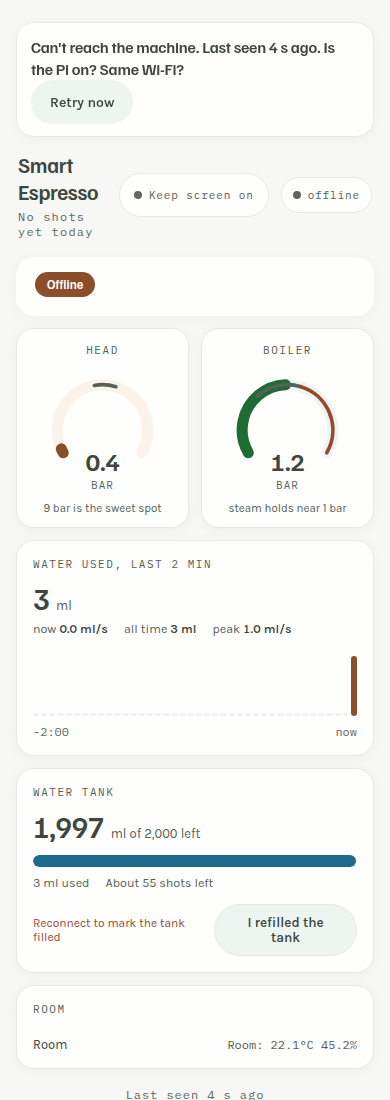
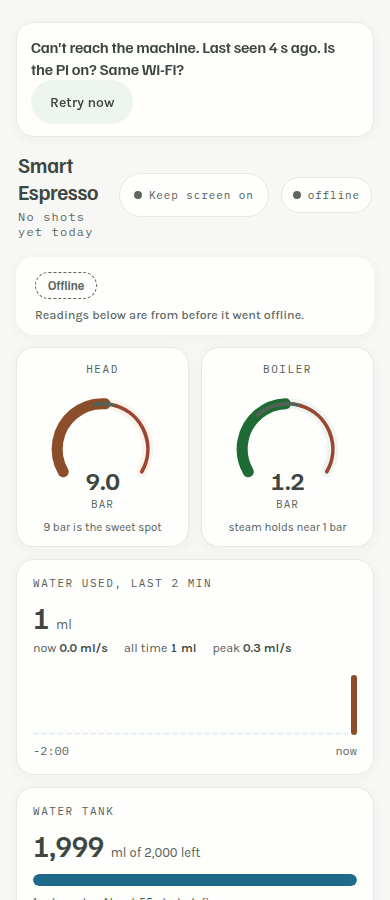
fix: quiet the Offline pill and name the kept readings
The pill uses the dashed mute style, and the detail says the cards still show the last readings. The banner keeps the can't-reach sentence.

diff --git a/smart_espresso/web/static/index.html b/smart_espresso/web/static/index.html
@@ -332,6 +332,12 @@
   }
 
   .state-chip .lamp { display: none; }
+  .state-chip.offline {
+    background: transparent;
+    color: var(--mute, var(--ink-faint));
+    border: 1px dashed var(--mute, var(--ink-faint));
+  }
+  .state-chip.offline .state-label::before { display: none; }
   .state-chip .state-label::before {
     content: "";
     display: inline-block;
@@ -2163,9 +2169,13 @@ function paintOfflineChrome() {
   const offline = DashboardLogic.shownState(
     lastMachine, null, connected, hasPayload, lastSeenAt, Date.now()
   );
+  const chip = document.querySelector('.state-chip');
+  if (chip) chip.classList.toggle('offline', offline.replace);
   if (offline.replace) {
     document.getElementById('state-label').textContent = offline.label;
-    document.getElementById('state-detail').textContent = '';
+    const detailEl = document.getElementById('state-detail');
+    detailEl.textContent = offline.detail;
+    detailEl.hidden = false;
     document.getElementById('shot').hidden = true;
     document.getElementById('warm').hidden = true;
     document.getElementById('brewbar').classList.remove('show');

diff --git a/smart_espresso/web/static/dashboard_logic.js b/smart_espresso/web/static/dashboard_logic.js
@@ -268,6 +268,7 @@
       return {
         replace: true,
         label: "Offline",
+        detail: "Readings below are from before it went offline.",
         showShot: false,
         showTarget: false,
       };
@@ -276,6 +277,7 @@
     return {
       replace: false,
       label: live.label,
+      detail: "",
       showShot: live.showShot,
       showTarget: live.showTarget,
     };

diff --git a/smart_espresso/web/static/sw.js b/smart_espresso/web/static/sw.js
@@ -2,7 +2,7 @@
 // still opens (slightly stale, clearly marked so by the page itself) when
 // the machine's server hiccups. Sensor data is never cached: /api/* always
 // goes to the network.
-const CACHE = 'espresso-shell-v44';
+const CACHE = 'espresso-shell-v48';
 const SHELL = [
   '/',
   '/dashboard_logic.js',

diff --git a/smart_espresso/test/test_dashboard_logic.py b/smart_espresso/test/test_dashboard_logic.py
@@ -171,9 +171,10 @@ class TestGlance:
         assert ready["replace"] is True
         assert ready["showShot"] is False
         assert ready["label"] == "Offline"
+        assert ready["detail"] == "Readings below are from before it went offline."
         assert "Ready to pull" not in ready["label"]
-        assert "Can't reach" not in ready["label"]
-        assert "Same Wi-Fi" not in ready["label"]
+        assert "Can't reach" not in ready["detail"]
+        assert "Same Wi-Fi" not in ready["detail"]
         banner = call("logic.offlineBanner(false, 3, 1000, 41000)")
         assert "Can't reach the machine. Last seen 40 s ago" in banner["title"]
         assert "Same Wi-Fi" in banner["title"]
@@ -359,6 +360,10 @@ class TestHero:
         assert "display: inline-block" in dot
         assert "width: 6px" in dot
         assert "display: none" in _css_rule(self.page, ".state-chip .lamp")
+        offline = _css_rule(self.page, ".state-chip.offline")
+        assert "background: transparent" in offline
+        assert "border: 1px dashed var(--mute" in offline
+        assert "var(--mute" in offline
         timer = _css_rule(self.page, ".timer b")
         assert "font-size: 62px" in timer
         assert "font-weight: 700" in timer
